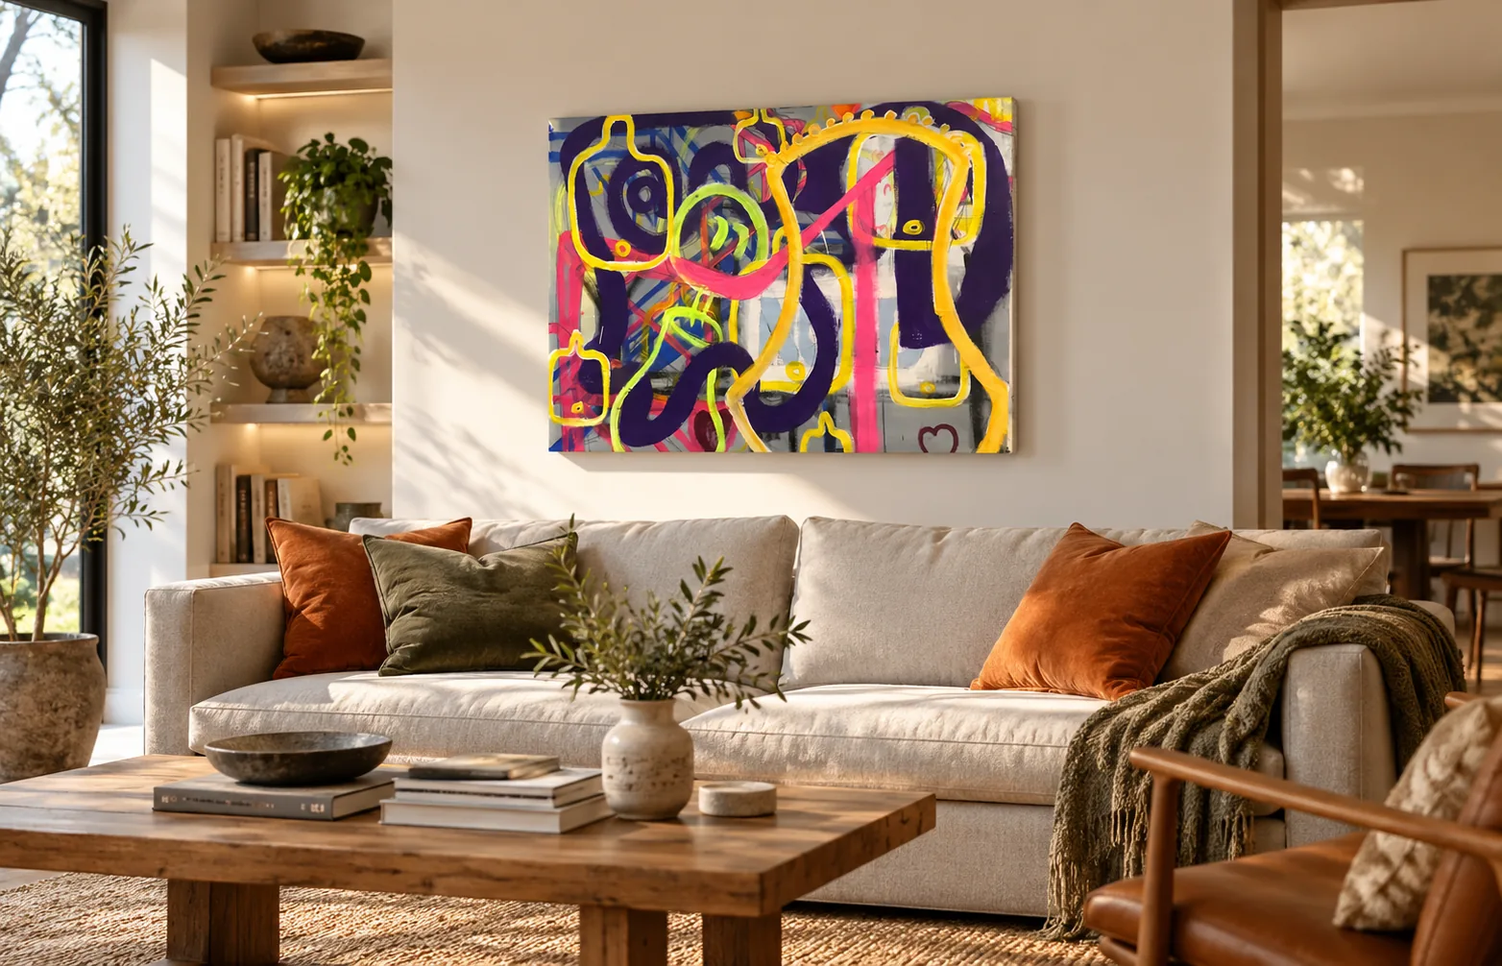
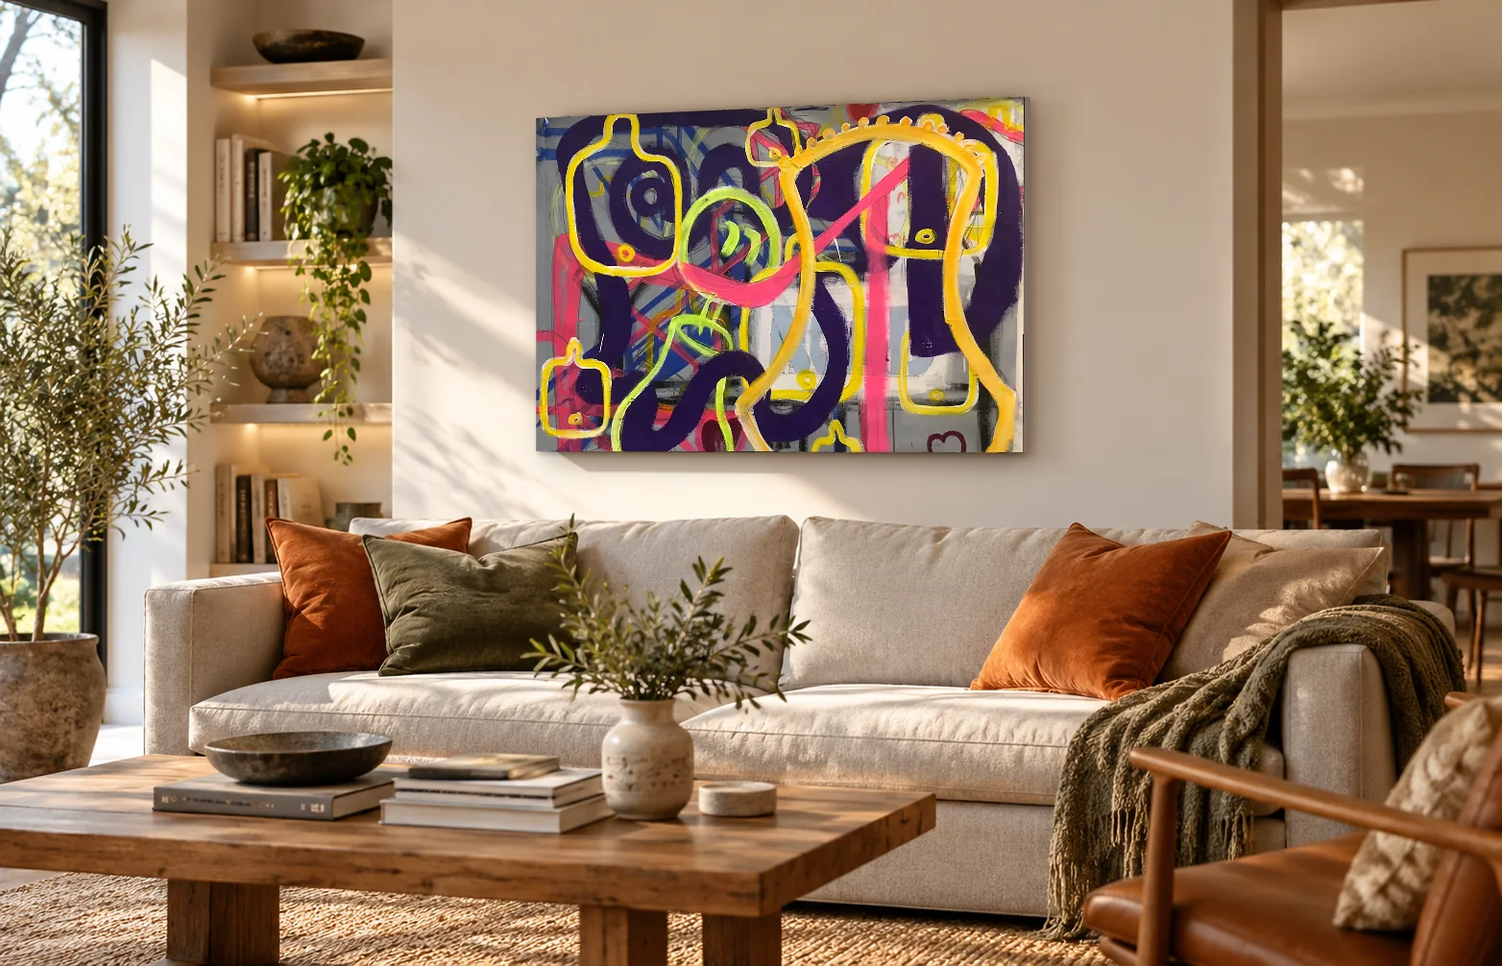
PREVIEW (not for deploy): Virtual Gallery tile redesign; Living Gallery image corrected to the actual photograph of the founder's painting in the AI-generated room; image provenance: record for the composite under founder decision PN-FDR-2026-10-29-PLOTART-LG (layers: painting, photograph, AI room, 
Claude-Session: https://claude.ai/code/session_01PsVWANZgScA1pB2r7YpMvh

Changed region(s): [[0.3376, 0.0924, 0.7059, 0.493]]

diff --git a/plotart/gallery/index.html b/plotart/gallery/index.html
@@ -33,34 +33,33 @@
 </div></section>
 
 <section class="pa-vg2-collection" aria-labelledby="vgColH"><div class="pa-wrap">
-  <div class="pa-vg2-head"><div><p class="pa-eyebrow">The collection</p><h2 id="vgColH">The first twenty-five galleries.</h2></div>
-  <p class="pa-vg2-note">Each space becomes an artist's own gallery once the artist is selected and approves it.</p></div>
+  <div class="pa-vg2-head"><div><p class="pa-eyebrow">The collection</p><h2 id="vgColH">The first twenty-five galleries.</h2></div></div>
   <ol class="pa-vg2-grid" aria-label="The Virtual Gallery collection">
-    <li class="pa-gspace pa-gspace--t1" aria-label="Gallery space 01"><span class="pa-gspace-frame" aria-hidden="true"><span class="pa-gspace-canvas"></span></span><span class="pa-gspace-cap" aria-hidden="true">01</span></li>
-    <li class="pa-gspace pa-gspace--t2" aria-label="Gallery space 02"><span class="pa-gspace-frame" aria-hidden="true"><span class="pa-gspace-canvas"></span></span><span class="pa-gspace-cap" aria-hidden="true">02</span></li>
-    <li class="pa-gspace pa-gspace--t3" aria-label="Gallery space 03"><span class="pa-gspace-frame" aria-hidden="true"><span class="pa-gspace-canvas"></span></span><span class="pa-gspace-cap" aria-hidden="true">03</span></li>
-    <li class="pa-gspace pa-gspace--t4" aria-label="Gallery space 04"><span class="pa-gspace-frame" aria-hidden="true"><span class="pa-gspace-canvas"></span></span><span class="pa-gspace-cap" aria-hidden="true">04</span></li>
-    <li class="pa-gspace pa-gspace--t5" aria-label="Gallery space 05"><span class="pa-gspace-frame" aria-hidden="true"><span class="pa-gspace-canvas"></span></span><span class="pa-gspace-cap" aria-hidden="true">05</span></li>
-    <li class="pa-gspace pa-gspace--t1" aria-label="Gallery space 06"><span class="pa-gspace-frame" aria-hidden="true"><span class="pa-gspace-canvas"></span></span><span class="pa-gspace-cap" aria-hidden="true">06</span></li>
-    <li class="pa-gspace pa-gspace--t2" aria-label="Gallery space 07"><span class="pa-gspace-frame" aria-hidden="true"><span class="pa-gspace-canvas"></span></span><span class="pa-gspace-cap" aria-hidden="true">07</span></li>
-    <li class="pa-gspace pa-gspace--t3" aria-label="Gallery space 08"><span class="pa-gspace-frame" aria-hidden="true"><span class="pa-gspace-canvas"></span></span><span class="pa-gspace-cap" aria-hidden="true">08</span></li>
-    <li class="pa-gspace pa-gspace--t4" aria-label="Gallery space 09"><span class="pa-gspace-frame" aria-hidden="true"><span class="pa-gspace-canvas"></span></span><span class="pa-gspace-cap" aria-hidden="true">09</span></li>
-    <li class="pa-gspace pa-gspace--t5" aria-label="Gallery space 10"><span class="pa-gspace-frame" aria-hidden="true"><span class="pa-gspace-canvas"></span></span><span class="pa-gspace-cap" aria-hidden="true">10</span></li>
-    <li class="pa-gspace pa-gspace--t1" aria-label="Gallery space 11"><span class="pa-gspace-frame" aria-hidden="true"><span class="pa-gspace-canvas"></span></span><span class="pa-gspace-cap" aria-hidden="true">11</span></li>
-    <li class="pa-gspace pa-gspace--t2" aria-label="Gallery space 12"><span class="pa-gspace-frame" aria-hidden="true"><span class="pa-gspace-canvas"></span></span><span class="pa-gspace-cap" aria-hidden="true">12</span></li>
-    <li class="pa-gspace pa-gspace--t3" aria-label="Gallery space 13"><span class="pa-gspace-frame" aria-hidden="true"><span class="pa-gspace-canvas"></span></span><span class="pa-gspace-cap" aria-hidden="true">13</span></li>
-    <li class="pa-gspace pa-gspace--t4" aria-label="Gallery space 14"><span class="pa-gspace-frame" aria-hidden="true"><span class="pa-gspace-canvas"></span></span><span class="pa-gspace-cap" aria-hidden="true">14</span></li>
-    <li class="pa-gspace pa-gspace--t5" aria-label="Gallery space 15"><span class="pa-gspace-frame" aria-hidden="true"><span class="pa-gspace-canvas"></span></span><span class="pa-gspace-cap" aria-hidden="true">15</span></li>
-    <li class="pa-gspace pa-gspace--t1" aria-label="Gallery space 16"><span class="pa-gspace-frame" aria-hidden="true"><span class="pa-gspace-canvas"></span></span><span class="pa-gspace-cap" aria-hidden="true">16</span></li>
-    <li class="pa-gspace pa-gspace--t2" aria-label="Gallery space 17"><span class="pa-gspace-frame" aria-hidden="true"><span class="pa-gspace-canvas"></span></span><span class="pa-gspace-cap" aria-hidden="true">17</span></li>
-    <li class="pa-gspace pa-gspace--t3" aria-label="Gallery space 18"><span class="pa-gspace-frame" aria-hidden="true"><span class="pa-gspace-canvas"></span></span><span class="pa-gspace-cap" aria-hidden="true">18</span></li>
-    <li class="pa-gspace pa-gspace--t4" aria-label="Gallery space 19"><span class="pa-gspace-frame" aria-hidden="true"><span class="pa-gspace-canvas"></span></span><span class="pa-gspace-cap" aria-hidden="true">19</span></li>
-    <li class="pa-gspace pa-gspace--t5" aria-label="Gallery space 20"><span class="pa-gspace-frame" aria-hidden="true"><span class="pa-gspace-canvas"></span></span><span class="pa-gspace-cap" aria-hidden="true">20</span></li>
-    <li class="pa-gspace pa-gspace--t1" aria-label="Gallery space 21"><span class="pa-gspace-frame" aria-hidden="true"><span class="pa-gspace-canvas"></span></span><span class="pa-gspace-cap" aria-hidden="true">21</span></li>
-    <li class="pa-gspace pa-gspace--t2" aria-label="Gallery space 22"><span class="pa-gspace-frame" aria-hidden="true"><span class="pa-gspace-canvas"></span></span><span class="pa-gspace-cap" aria-hidden="true">22</span></li>
-    <li class="pa-gspace pa-gspace--t3" aria-label="Gallery space 23"><span class="pa-gspace-frame" aria-hidden="true"><span class="pa-gspace-canvas"></span></span><span class="pa-gspace-cap" aria-hidden="true">23</span></li>
-    <li class="pa-gspace pa-gspace--t4" aria-label="Gallery space 24"><span class="pa-gspace-frame" aria-hidden="true"><span class="pa-gspace-canvas"></span></span><span class="pa-gspace-cap" aria-hidden="true">24</span></li>
-    <li class="pa-gspace pa-gspace--t5" aria-label="Gallery space 25"><span class="pa-gspace-frame" aria-hidden="true"><span class="pa-gspace-canvas"></span></span><span class="pa-gspace-cap" aria-hidden="true">25</span></li>
+    <li class="pa-gspace pa-gspace--t1" aria-label="Gallery space 01"><span class="pa-gspace-tile" aria-hidden="true"><span class="pa-gspace-light"></span><span class="pa-gspace-n">01</span></span></li>
+    <li class="pa-gspace pa-gspace--t2" aria-label="Gallery space 02"><span class="pa-gspace-tile" aria-hidden="true"><span class="pa-gspace-light"></span><span class="pa-gspace-n">02</span></span></li>
+    <li class="pa-gspace pa-gspace--t3" aria-label="Gallery space 03"><span class="pa-gspace-tile" aria-hidden="true"><span class="pa-gspace-light"></span><span class="pa-gspace-n">03</span></span></li>
+    <li class="pa-gspace pa-gspace--t4" aria-label="Gallery space 04"><span class="pa-gspace-tile" aria-hidden="true"><span class="pa-gspace-light"></span><span class="pa-gspace-n">04</span></span></li>
+    <li class="pa-gspace pa-gspace--t5" aria-label="Gallery space 05"><span class="pa-gspace-tile" aria-hidden="true"><span class="pa-gspace-light"></span><span class="pa-gspace-n">05</span></span></li>
+    <li class="pa-gspace pa-gspace--t1" aria-label="Gallery space 06"><span class="pa-gspace-tile" aria-hidden="true"><span class="pa-gspace-light"></span><span class="pa-gspace-n">06</span></span></li>
+    <li class="pa-gspace pa-gspace--t2" aria-label="Gallery space 07"><span class="pa-gspace-tile" aria-hidden="true"><span class="pa-gspace-light"></span><span class="pa-gspace-n">07</span></span></li>
+    <li class="pa-gspace pa-gspace--t3" aria-label="Gallery space 08"><span class="pa-gspace-tile" aria-hidden="true"><span class="pa-gspace-light"></span><span class="pa-gspace-n">08</span></span></li>
+    <li class="pa-gspace pa-gspace--t4" aria-label="Gallery space 09"><span class="pa-gspace-tile" aria-hidden="true"><span class="pa-gspace-light"></span><span class="pa-gspace-n">09</span></span></li>
+    <li class="pa-gspace pa-gspace--t5" aria-label="Gallery space 10"><span class="pa-gspace-tile" aria-hidden="true"><span class="pa-gspace-light"></span><span class="pa-gspace-n">10</span></span></li>
+    <li class="pa-gspace pa-gspace--t1" aria-label="Gallery space 11"><span class="pa-gspace-tile" aria-hidden="true"><span class="pa-gspace-light"></span><span class="pa-gspace-n">11</span></span></li>
+    <li class="pa-gspace pa-gspace--t2" aria-label="Gallery space 12"><span class="pa-gspace-tile" aria-hidden="true"><span class="pa-gspace-light"></span><span class="pa-gspace-n">12</span></span></li>
+    <li class="pa-gspace pa-gspace--t3" aria-label="Gallery space 13"><span class="pa-gspace-tile" aria-hidden="true"><span class="pa-gspace-light"></span><span class="pa-gspace-n">13</span></span></li>
+    <li class="pa-gspace pa-gspace--t4" aria-label="Gallery space 14"><span class="pa-gspace-tile" aria-hidden="true"><span class="pa-gspace-light"></span><span class="pa-gspace-n">14</span></span></li>
+    <li class="pa-gspace pa-gspace--t5" aria-label="Gallery space 15"><span class="pa-gspace-tile" aria-hidden="true"><span class="pa-gspace-light"></span><span class="pa-gspace-n">15</span></span></li>
+    <li class="pa-gspace pa-gspace--t1" aria-label="Gallery space 16"><span class="pa-gspace-tile" aria-hidden="true"><span class="pa-gspace-light"></span><span class="pa-gspace-n">16</span></span></li>
+    <li class="pa-gspace pa-gspace--t2" aria-label="Gallery space 17"><span class="pa-gspace-tile" aria-hidden="true"><span class="pa-gspace-light"></span><span class="pa-gspace-n">17</span></span></li>
+    <li class="pa-gspace pa-gspace--t3" aria-label="Gallery space 18"><span class="pa-gspace-tile" aria-hidden="true"><span class="pa-gspace-light"></span><span class="pa-gspace-n">18</span></span></li>
+    <li class="pa-gspace pa-gspace--t4" aria-label="Gallery space 19"><span class="pa-gspace-tile" aria-hidden="true"><span class="pa-gspace-light"></span><span class="pa-gspace-n">19</span></span></li>
+    <li class="pa-gspace pa-gspace--t5" aria-label="Gallery space 20"><span class="pa-gspace-tile" aria-hidden="true"><span class="pa-gspace-light"></span><span class="pa-gspace-n">20</span></span></li>
+    <li class="pa-gspace pa-gspace--t1" aria-label="Gallery space 21"><span class="pa-gspace-tile" aria-hidden="true"><span class="pa-gspace-light"></span><span class="pa-gspace-n">21</span></span></li>
+    <li class="pa-gspace pa-gspace--t2" aria-label="Gallery space 22"><span class="pa-gspace-tile" aria-hidden="true"><span class="pa-gspace-light"></span><span class="pa-gspace-n">22</span></span></li>
+    <li class="pa-gspace pa-gspace--t3" aria-label="Gallery space 23"><span class="pa-gspace-tile" aria-hidden="true"><span class="pa-gspace-light"></span><span class="pa-gspace-n">23</span></span></li>
+    <li class="pa-gspace pa-gspace--t4" aria-label="Gallery space 24"><span class="pa-gspace-tile" aria-hidden="true"><span class="pa-gspace-light"></span><span class="pa-gspace-n">24</span></span></li>
+    <li class="pa-gspace pa-gspace--t5" aria-label="Gallery space 25"><span class="pa-gspace-tile" aria-hidden="true"><span class="pa-gspace-light"></span><span class="pa-gspace-n">25</span></span></li>
   </ol>
 </div></section>
 

diff --git a/plotart/assets/plotart.css b/plotart/assets/plotart.css
@@ -572,34 +572,37 @@ body.pa .pa-free-lines{ margin:0; }
 @media (max-width:1279px){ .pa-vg2-grid{ grid-template-columns:repeat(4, minmax(0, 1fr)); } }
 @media (max-width:959px){ .pa-vg2-grid{ grid-template-columns:repeat(3, minmax(0, 1fr)); } }
 @media (max-width:639px){ .pa-vg2-grid{ grid-template-columns:repeat(2, minmax(0, 1fr)); gap:14px; } }
-/* an empty gallery space: a framed, warm, textured canvas -- not a record */
-.pa-gspace{ display:flex; flex-direction:column; gap:12px; }
-.pa-gspace-frame{ display:block; aspect-ratio:4 / 5; padding:7%; background:#EFE8DC; border-radius:2px; box-shadow:0 18px 34px -22px rgba(0,0,0,.7), inset 0 0 0 1px rgba(0,0,0,.06); transition:transform .5s ease, box-shadow .5s ease; }
-.pa-gspace-canvas{ display:block; width:100%; height:100%; box-shadow:inset 0 0 0 1px rgba(0,0,0,.08), inset 0 10px 30px -12px rgba(0,0,0,.18);
-  background-image:repeating-linear-gradient(45deg, rgba(255,255,255,.035) 0 2px, transparent 2px 6px), repeating-linear-gradient(-45deg, rgba(0,0,0,.025) 0 2px, transparent 2px 7px); }
-.pa-gspace--t1 .pa-gspace-canvas{ background-color:#D9CFC0; }
-.pa-gspace--t2 .pa-gspace-canvas{ background-color:#CBBFAE; }
-.pa-gspace--t3 .pa-gspace-canvas{ background-color:#E2D8C8; }
-.pa-gspace--t4 .pa-gspace-canvas{ background-color:#C6BBAD; }
-.pa-gspace--t5 .pa-gspace-canvas{ background-color:#D3C6B3; }
-.pa-gspace:hover .pa-gspace-frame{ transform:translateY(-3px); box-shadow:0 26px 40px -24px rgba(0,0,0,.75), inset 0 0 0 1px rgba(0,0,0,.06); }
-.pa-gspace-cap{ font-family:var(--serif); font-size:17px; letter-spacing:.04em; color:var(--bronze-text); }
-/* a populated artist card (used once approved artists exist) */
-.pa-gcard a{ display:flex; flex-direction:column; gap:12px; text-decoration:none; color:inherit; }
-.pa-gcard-art{ display:block; aspect-ratio:4 / 5; padding:7%; background:#EFE8DC; border-radius:2px; box-shadow:0 18px 34px -22px rgba(0,0,0,.7); }
+/* Gallery tiles (founder refinement, 29 Oct 2026): dark charcoal, softly rounded, fine border, floating */
+.pa-vg2-collection{ background:linear-gradient(180deg, #2B2927 0%, #282624 100%); }
+.pa-vg2-grid{ gap:clamp(18px, 2vw, 30px); }
+.pa-gspace-tile, .pa-gcard-tile{ position:relative; display:block; border-radius:14px; background:linear-gradient(165deg, #363330 0%, #312E2B 100%);
+  border:1px solid rgba(242,235,224,.10); box-shadow:0 22px 44px -28px rgba(0,0,0,.75), 0 2px 6px -2px rgba(0,0,0,.35);
+  transition:transform .45s ease, border-color .45s ease, box-shadow .45s ease; }
+.pa-gspace-tile{ aspect-ratio:4 / 5; overflow:hidden; }
+.pa-gspace-light{ position:absolute; inset:0; background:radial-gradient(ellipse 70% 45% at 50% 0%, rgba(255,236,206,.07), rgba(255,236,206,0) 70%); }
+.pa-gspace-light::after{ content:""; position:absolute; left:22%; right:22%; top:24%; bottom:30%; border:1px solid rgba(242,235,224,.07); border-radius:3px; }
+.pa-gspace--t2 .pa-gspace-light::after{ left:18%; right:18%; top:30%; bottom:34%; }
+.pa-gspace--t3 .pa-gspace-light::after{ left:26%; right:26%; top:20%; bottom:26%; }
+.pa-gspace--t4 .pa-gspace-light::after{ left:20%; right:20%; top:27%; bottom:36%; }
+.pa-gspace--t5 .pa-gspace-light::after{ left:24%; right:24%; top:22%; bottom:30%; }
+.pa-gspace-n{ position:absolute; left:16px; bottom:13px; font-family:var(--sans); font-size:11.5px; font-weight:600; letter-spacing:.18em; color:rgba(207,133,102,.72); }
+.pa-gspace:hover .pa-gspace-tile, .pa-gcard-tile:hover, .pa-gcard-tile:focus-visible{ transform:translateY(-3px); border-color:rgba(242,235,224,.24); box-shadow:0 30px 52px -30px rgba(0,0,0,.85), 0 2px 6px -2px rgba(0,0,0,.35); }
+/* an approved artist's card: the featured artwork leads */
+.pa-gcard-tile{ text-decoration:none; color:inherit; padding:10px 10px 16px; }
+.pa-gcard-art{ display:block; aspect-ratio:4 / 5; border-radius:9px; overflow:hidden; background:#24221F; }
 .pa-gcard-art img{ display:block; width:100%; height:100%; object-fit:cover; }
-.pa-gcard.is-founding .pa-gcard-art{ box-shadow:0 18px 34px -22px rgba(0,0,0,.7), inset 0 0 0 1px var(--terra); }
-.pa-gcard-cap{ display:flex; flex-direction:column; gap:3px; }
-.pa-gcard-badge{ align-self:flex-start; font-size:10.5px; letter-spacing:.14em; text-transform:uppercase; color:var(--terra-text); border:1px solid rgba(207,133,102,.5); border-radius:999px; padding:3px 8px; margin-bottom:4px; }
-.pa-gcard-name{ font-family:var(--serif); font-size:clamp(20px, 1.7vw, 24px); color:var(--ivory); }
+.pa-gcard-cap{ display:flex; flex-direction:column; gap:3px; padding:14px 6px 0; }
+.pa-gcard.is-founding .pa-gcard-tile{ border-color:rgba(207,133,102,.55); }
+.pa-gcard-badge{ align-self:flex-start; font-size:10px; letter-spacing:.16em; text-transform:uppercase; color:var(--terra-text); border:1px solid rgba(207,133,102,.45); border-radius:999px; padding:3px 8px; margin-bottom:5px; }
+.pa-gcard-name{ font-family:var(--serif); font-size:clamp(20px, 1.6vw, 23px); color:var(--ivory); line-height:1.15; }
 .pa-gcard-meta{ font-size:13px; color:var(--stone); }
+@media (prefers-reduced-motion:reduce){ .pa-gspace-tile, .pa-gcard-tile{ transition:none; } .pa-gspace:hover .pa-gspace-tile, .pa-gcard-tile:hover{ transform:none; } }
 .pa-vg2-close{ background:#2A2725; }
 .pa-vg2-close .pa-wrap{ padding-top:clamp(44px, 5vw, 76px); padding-bottom:clamp(44px, 5vw, 76px); text-align:center; }
 .pa-vg2-close-t{ font-family:var(--serif); font-size:clamp(30px, 3.6vw, 52px); color:var(--ivory); margin:0 0 18px; }
 .pa-vg2-close-l{ display:flex; justify-content:center; flex-wrap:wrap; gap:10px 28px; margin:0; }
 .pa-vg2-close-l a{ color:var(--terra-text); text-decoration:none; font-weight:500; }
 .pa-vg2-close-l a:hover{ color:var(--terra-hover); }
-@media (prefers-reduced-motion:reduce){ .pa-gspace-frame{ transition:none; } .pa-gspace:hover .pa-gspace-frame{ transform:none; } }
 
 /* Living Gallery: interior-led, warmer */
 .pa-lg-hero{ background:linear-gradient(180deg, #2E2A27 0%, #2B2826 100%); }

diff --git a/plotart/index.html b/plotart/index.html
@@ -65,8 +65,8 @@
   <div class="pa-sec-head"><div><p class="pa-eyebrow">The Living Gallery</p><h2 id="homeLgH">Real art. Real homes.</h2></div>
   <div><p class="pa-lede" style="margin:0 0 18px">Discover original artwork displayed in real homes, showing how art can become part of everyday living.</p>
   <p style="margin:0"><a class="pa-btn pa-btn--ghost" href="living-gallery.html" data-pa-track="home_lg">Visit the Living Gallery <span aria-hidden="true">→</span></a></p></div></div>
-  <figure class="pa-lg-feature"><a href="living-gallery.html" data-pa-track="home_lg_image"><img src="assets/living/plotart-living-gallery-colin-macaulay-artwork.webp" width="1564" height="1006" alt="A bright, warm living room with an original abstract painting by Colin Macaulay, in yellow, violet and pink, hanging above a linen sofa" loading="lazy" decoding="async"></a>
-    <figcaption><span>Original artwork by Colin Macaulay. Interior visualisation for PlotArt, not a real home.</span><span class="pa-chip pa-chip--illus">AI-generated illustration</span></figcaption></figure>
+  <figure class="pa-lg-feature"><a href="living-gallery.html" data-pa-track="home_lg_image"><img src="assets/living/plotart-living-gallery-colin-macaulay-artwork.webp" width="1564" height="1006" alt="An original abstract painting by Colin Macaulay, in yellow, violet and pink, hanging above a linen sofa in an AI-generated living-room visualisation" loading="lazy" decoding="async"></a>
+    <figcaption><span>Original artwork by Colin Macaulay. The room is an AI-generated interior visualisation for PlotArt, not a real home.</span><span class="pa-chip pa-chip--illus">AI-generated illustration</span></figcaption></figure>
 </div></section>
 
 <section class="pa-sec pa-sec--anth pa-aah" aria-labelledby="aahH"><div class="pa-wrap pa-aah-grid">

diff --git a/atlas-tools/validate-image-provenance.js b/atlas-tools/validate-image-provenance.js
@@ -217,10 +217,19 @@ const FOUNDER_ATTESTED_DISC032 = {
   ]),
   surfaces: ['discovery', 'library-card'],
 };
-const FOUNDER_ATTESTED_ALL = [FOUNDER_ATTESTED_GRP, FOUNDER_ATTESTED_H6, FOUNDER_ATTESTED_DISC031, FOUNDER_ATTESTED_DISC033, FOUNDER_ATTESTED_DISC032];
+/* PN-FDR-2026-10-29-PLOTART-LG (founder, 29 Oct 2026): the PlotArt Living Gallery composite. The room was
+   generated with ChatGPT (prompt unavailable; the founder supplied a photograph of his own painting as the
+   reference); the AI rendition of the painting was then replaced by the actual photograph of the painting.
+   Pinned to this one file and the PlotArt surface only. */
+const FOUNDER_ATTESTED_PLOTART_LG = {
+  decision: 'PN-FDR-2026-10-29-PLOTART-LG',
[1 lines of base64/hex data omitted]
+  surfaces: ['plotart'],
+};
+const FOUNDER_ATTESTED_ALL = [FOUNDER_ATTESTED_GRP, FOUNDER_ATTESTED_H6, FOUNDER_ATTESTED_DISC031, FOUNDER_ATTESTED_DISC033, FOUNDER_ATTESTED_DISC032, FOUNDER_ATTESTED_PLOTART_LG];
 const attestedFor = h => FOUNDER_ATTESTED_ALL.find(x => x.sha256.has(String(h)));
 const PERMITTED_SURFACES = ['discovery', 'library-card', 'homepage',
-                            'about', 'journey', 'preview'];
+                            'about', 'journey', 'preview', 'plotart'];
 const IMG_EXT = /\.(jpe?g|png|webp|avif|gif|svg|ico)$/i;
 /* PlotNua's own origins. An absolute self-reference is still one of our
    images and still needs declaring: twitter:image points at

diff --git a/plotart/living-gallery.html b/plotart/living-gallery.html
@@ -31,8 +31,8 @@
   <h1>Art belongs in the spaces where we live.</h1>
   <p class="pa-lede" style="margin-top:26px">The Living Gallery brings original Irish artwork into real homes, creating new ways to discover, experience and connect with art.</p>
   <figure class="pa-lg-feature">
-    <img src="assets/living/plotart-living-gallery-colin-macaulay-artwork.webp" width="1564" height="1006" alt="A bright, warm living room with an original abstract painting by Colin Macaulay, in yellow, violet and pink, hanging above a linen sofa" fetchpriority="high" decoding="async">
-    <figcaption><span>Original artwork by Colin Macaulay. Interior visualisation for PlotArt, not a real home.</span><span class="pa-chip pa-chip--illus">AI-generated illustration</span></figcaption>
+    <img src="assets/living/plotart-living-gallery-colin-macaulay-artwork.webp" width="1564" height="1006" alt="An original abstract painting by Colin Macaulay, in yellow, violet and pink, hanging above a linen sofa in an AI-generated living-room visualisation" fetchpriority="high" decoding="async">
+    <figcaption><span>Original artwork by Colin Macaulay. The room is an AI-generated interior visualisation for PlotArt, not a real home.</span><span class="pa-chip pa-chip--illus">AI-generated illustration</span></figcaption>
   </figure>
 </div></section>
 <section class="pa-sec pa-lg-how"><div class="pa-wrap">

diff --git a/atlas-tools/prove-plotart-launch.py b/atlas-tools/prove-plotart-launch.py
@@ -160,7 +160,7 @@ home = open(os.path.join(PA, "index.html"), encoding="utf-8").read() if os.path.
 need(all(('src="%s"' % x) in home for x in HERO_IMAGES) and "Original artwork by Colin Macaulay, founder of PlotArt." in visible_text(home)
      and len(re.findall(r'<img [^>]*alt="Painting by Colin Macaulay', home)) == 1 and len(re.findall(r"<img\b", home)) == 3 + home.count("plotnua-mark-master.svg"),
      "L6 the homepage images must be exactly the founder's credited painting, the Living Gallery visualisation and the A Home for Art image")
-LG_CAP = "Original artwork by Colin Macaulay. Interior visualisation for PlotArt, not a real home."
+LG_CAP = "Original artwork by Colin Macaulay. The room is an AI-generated interior visualisation for PlotArt, not a real home."
 for _n, _s in (("index.html", home), ("living-gallery.html", open(os.path.join(PA, "living-gallery.html"), encoding="utf-8").read() if os.path.exists(os.path.join(PA, "living-gallery.html")) else "")):
     need(_s.count(LG_IMAGE) == 1 and LG_CAP in visible_text(_s) and "AI-generated illustration" in visible_text(_s),
          "L6 %s must show the Living Gallery visualisation once, credited and labelled as an AI-generated illustration" % _n)
@@ -270,7 +270,7 @@ if vg:
     need("pa-gcard" not in vg.split("<main", 1)[-1], "L11 an artist card is published (needs approved artists and their gallery pages)")
     _vgm = vg.split("<main", 1)[-1].split("</main>")[0]; _vgmv = re.sub(r"\s+", " ", visible_text(_vgm))
     need("founding-25.html" not in _vgm and "Founding 25" not in _vgmv and "Artist first" not in _vgmv, "L11 the Virtual Gallery carries Founding 25 promotion or an 'Artist first' section")
-    need("Each space becomes an artist's own gallery once the artist is selected and approves it." in vgv, "L11 the Virtual Gallery must say how a space becomes a gallery")
+    need("The first twenty-five galleries." in vgv, "L11 the Virtual Gallery collection heading is not the approved wording")
     need(not re.search(r"<img\b|<picture\b|<svg\b|background-image|url\(", vg.split("<main", 1)[-1].split("</main>")[0]), "L11 the Virtual Gallery shows an image (no portrait or artwork may appear)")
     need(not re.search(r"testimonial|“|”|\bsaid\b", visible_text(vg.split("<main", 1)[-1].split("</main>")[0]), re.I), "L11 the Virtual Gallery carries a quotation or testimonial")
     need("<title>Virtual Gallery | PlotArt</title>" in vg, "L11 the Virtual Gallery title is not the approved one")
